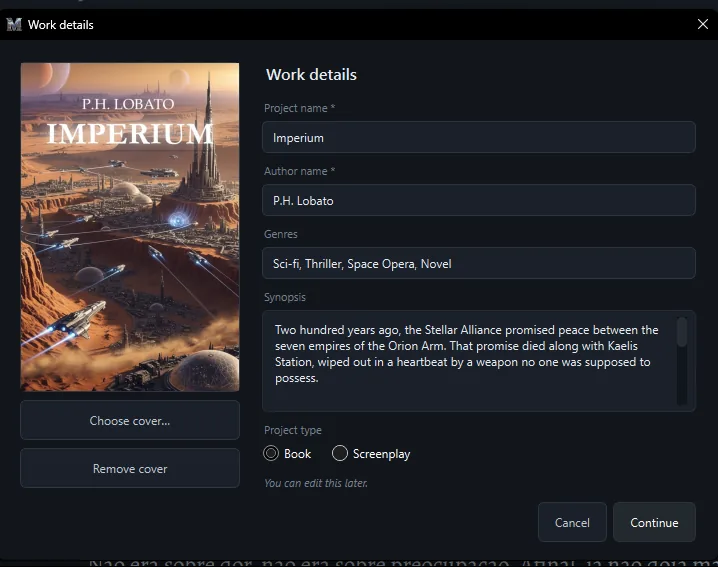
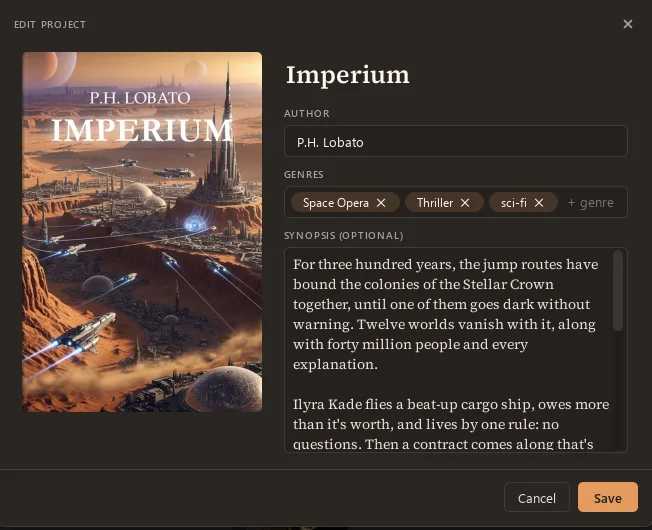
README: prints novos (Lousa, Timeline, temas, Pensário, projeto, meta)

diff --git a/README.md b/README.md
@@ -48,7 +48,7 @@ Now let's talk about what it offers — and why you need it.
 Set the title, genres, and cover. Choose what it is: a book or a
 screenplay?
 
-<img width="718" height="567" alt="Qenna Writer - create a new novel or screenplay project" src="https://raw.githubusercontent.com/Pedrovskigg/Qenna-Writer-releases/main/img/panel-newproject.webp" />
+<img width="652" height="530" alt="Qenna Writer - project sheet with cover, author, genres and synopsis" src="https://raw.githubusercontent.com/Pedrovskigg/Qenna-Writer-releases/main/img/panel-newproject.webp" />
 
 ## The text editor
 
@@ -106,7 +106,7 @@ recall whenever you need it. Never forget what they said — or where they
 said it.
 
 <img width="365" height="801" alt="Qenna Writer - character relationship and bonds graph for novelists" src="https://raw.githubusercontent.com/Pedrovskigg/Qenna-Writer-releases/main/img/bonds.webp" />
-<img width="375" height="632" alt="Qenna Writer - automatic character dialogue log, filtered by speaker" src="https://raw.githubusercontent.com/Pedrovskigg/Qenna-Writer-releases/main/img/dialogo.webp" />
+<img width="440" height="244" alt="Qenna Writer - automatic character dialogue log, each line under whoever said it" src="https://raw.githubusercontent.com/Pedrovskigg/Qenna-Writer-releases/main/img/dialogo.webp" />
 
 ## Stay consistent with just a few clicks
 
@@ -124,7 +124,9 @@ Consistency isn't just for characters anymore, either — Object and Setting
 drawers now get their own presence tracking too, so you can check exactly
 where a prop or a location was actually used across your manuscript.
 
-<img width="380" height="245" alt="Qenna Writer - Pensarium, a memory and notes tool for writers" src="https://raw.githubusercontent.com/Pedrovskigg/Qenna-Writer-releases/main/img/panel-note.webp" />
+<img width="439" height="243" alt="Qenna Writer - Pensarium, a memory and notes tool for writers" src="https://raw.githubusercontent.com/Pedrovskigg/Qenna-Writer-releases/main/img/panel-note.webp" />
+<img width="445" height="209" alt="Qenna Writer - Pensarium memories: passages saved for later, with their chapter" src="https://raw.githubusercontent.com/Pedrovskigg/Qenna-Writer-releases/main/img/panel-memories.webp" />
+<img width="806" height="319" alt="Qenna Writer - comment on a highlighted passage, with an option to turn it into a task" src="https://raw.githubusercontent.com/Pedrovskigg/Qenna-Writer-releases/main/img/panel-comment.webp" />
 
 ## Build your story and your world
 
@@ -146,7 +148,8 @@ beautifully chaotic? You decide.
 Everything you build on the Board — every card, planning area, comment —
 can be exported straight into drawers.
 
-<img width="1300" height="690" alt="Qenna Writer - The Board, a corkboard plotting tool for novelists" src="https://raw.githubusercontent.com/Pedrovskigg/Qenna-Writer-releases/main/img/panel-board.webp" />
+<img width="1300" height="693" alt="Qenna Writer - The Board, a corkboard plotting tool for novelists" src="https://raw.githubusercontent.com/Pedrovskigg/Qenna-Writer-releases/main/img/panel-board.webp" />
+<img width="1300" height="700" alt="Qenna Writer - The Board: scene-by-scene notes and film stills planning a whole act" src="https://raw.githubusercontent.com/Pedrovskigg/Qenna-Writer-releases/main/img/panel-board-act.webp" />
 
 ### 2. The Builder
 
@@ -182,7 +185,7 @@ Create as many timelines and events as you want, using markers to keep
 everything in the order you need. Watch your project's past and present
 unfold in real time — while you plan the future.
 
-<img width="1100" height="662" alt="Qenna Writer - story timeline built from the dates already in your chapters" src="https://raw.githubusercontent.com/Pedrovskigg/Qenna-Writer-releases/main/img/panel-timeline.webp" />
+<img width="1300" height="684" alt="Qenna Writer - story timeline built from the dates already in your chapters, with branching lines" src="https://raw.githubusercontent.com/Pedrovskigg/Qenna-Writer-releases/main/img/panel-timeline.webp" />
 <img width="1100" height="673" alt="Qenna Writer - story timeline, spiral view" src="https://raw.githubusercontent.com/Pedrovskigg/Qenna-Writer-releases/main/img/timeline-espiral.webp" />
 
 ## See the whole manuscript at once
@@ -221,7 +224,7 @@ Set your goals freely, too. Time-based? Word-based? Your call. Run writing
 sprints with Pomodoro and lock in your focus.
 
 <img width="564" height="926" alt="Qenna Writer - project statistics: character participation, words per chapter, project summary" src="https://raw.githubusercontent.com/Pedrovskigg/Qenna-Writer-releases/main/img/panel-stats.webp" />
-<img width="462" height="315" alt="Qenna Writer - writing goals progress calendar and streaks" src="https://raw.githubusercontent.com/Pedrovskigg/Qenna-Writer-releases/main/img/panel-streak.webp" />
+<img width="462" height="305" alt="Qenna Writer - writing goals progress calendar and streaks" src="https://raw.githubusercontent.com/Pedrovskigg/Qenna-Writer-releases/main/img/panel-streak.webp" />
 
 <img width="554" height="674" alt="Qenna Writer - character statistics: scenes and chapters they appear in, lines detected, words spoken, and who they share the page with most" src="https://raw.githubusercontent.com/Pedrovskigg/Qenna-Writer-releases/main/img/panel-stats2.webp" />
 
@@ -246,14 +249,16 @@ music to help you lose yourself in your writing. You can add your own
 custom sounds too.
 
 
-**Make it yours!** — Qenna Writer comes with 286 built-in Themes by
+**Make it yours!** — Qenna Writer comes with 382 built-in Themes by
 default. That's Themes for days — nobody's got anything to complain about.
 But on the off chance none of them speak to you, feel free to build your
 own custom Themes! Background images, editor color, panel color, text
 color — everything is customizable and within reach.
 
-<img width="799" height="992" alt="Qenna Writer - 286 built-in themes, with search by name and favourites" src="https://raw.githubusercontent.com/Pedrovskigg/Qenna-Writer-releases/main/img/panel-themes.webp" />
-<img width="798" height="991" alt="Qenna Writer - the Patterned filter: themes with photographic backgrounds" src="https://raw.githubusercontent.com/Pedrovskigg/Qenna-Writer-releases/main/img/panel-patterns.webp" />
+<img width="1198" height="759" alt="Qenna Writer - 382 built-in themes, with search, categories and a preview of each one" src="https://raw.githubusercontent.com/Pedrovskigg/Qenna-Writer-releases/main/img/panel-themes.webp" />
+<img width="1196" height="726" alt="Qenna Writer - the Patterned filter: themes with photographic backgrounds" src="https://raw.githubusercontent.com/Pedrovskigg/Qenna-Writer-releases/main/img/panel-patterns.webp" />
+<img width="1001" height="736" alt="Qenna Writer - the Theme Creator: background image, gradient, vignette and grain" src="https://raw.githubusercontent.com/Pedrovskigg/Qenna-Writer-releases/main/img/panel-theme-creator.webp" />
+<img width="1199" height="720" alt="Qenna Writer - two themes compared side by side before switching" src="https://raw.githubusercontent.com/Pedrovskigg/Qenna-Writer-releases/main/img/panel-compare.webp" />
 <img width="1300" height="682" alt="Qenna Writer - Focus Mode: every bar hidden, only the page left" src="https://raw.githubusercontent.com/Pedrovskigg/Qenna-Writer-releases/main/img/shot-focus.webp" />
 
 **The Cover Creator** — a tool for designing covers for your project,
